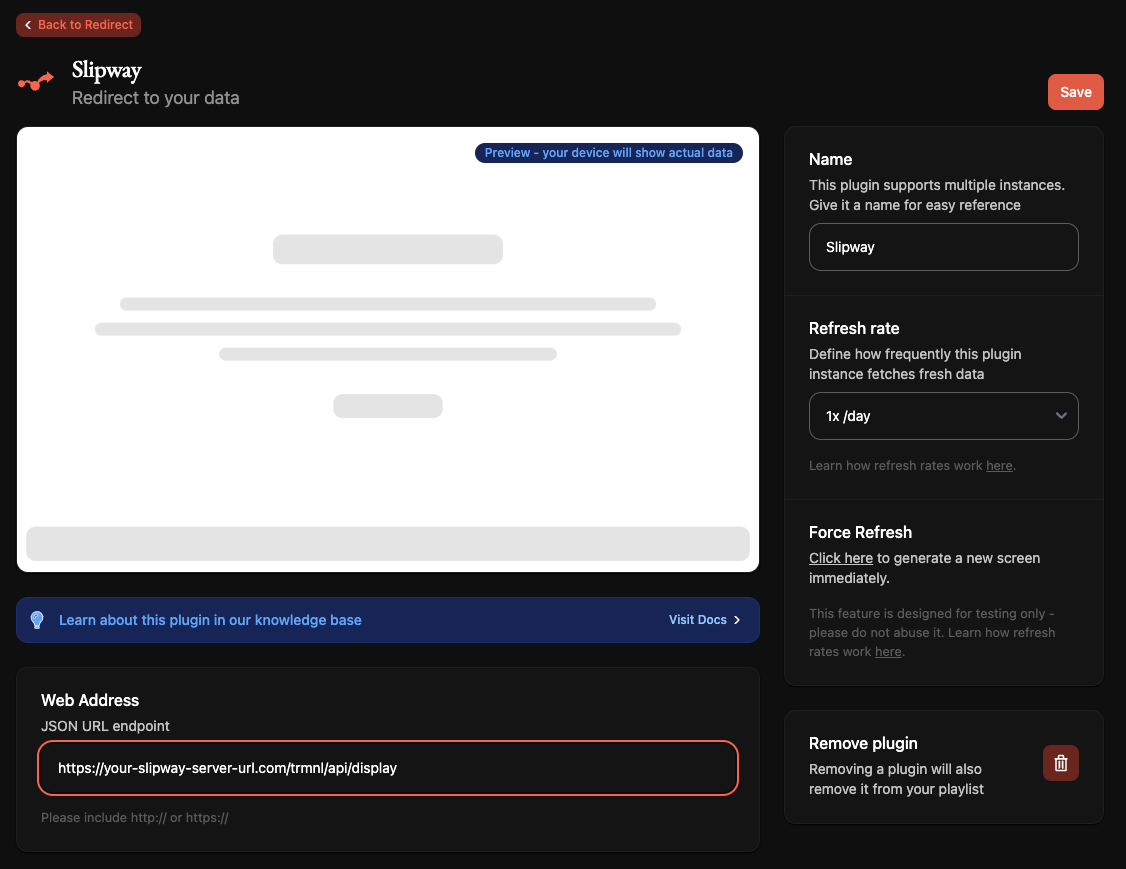
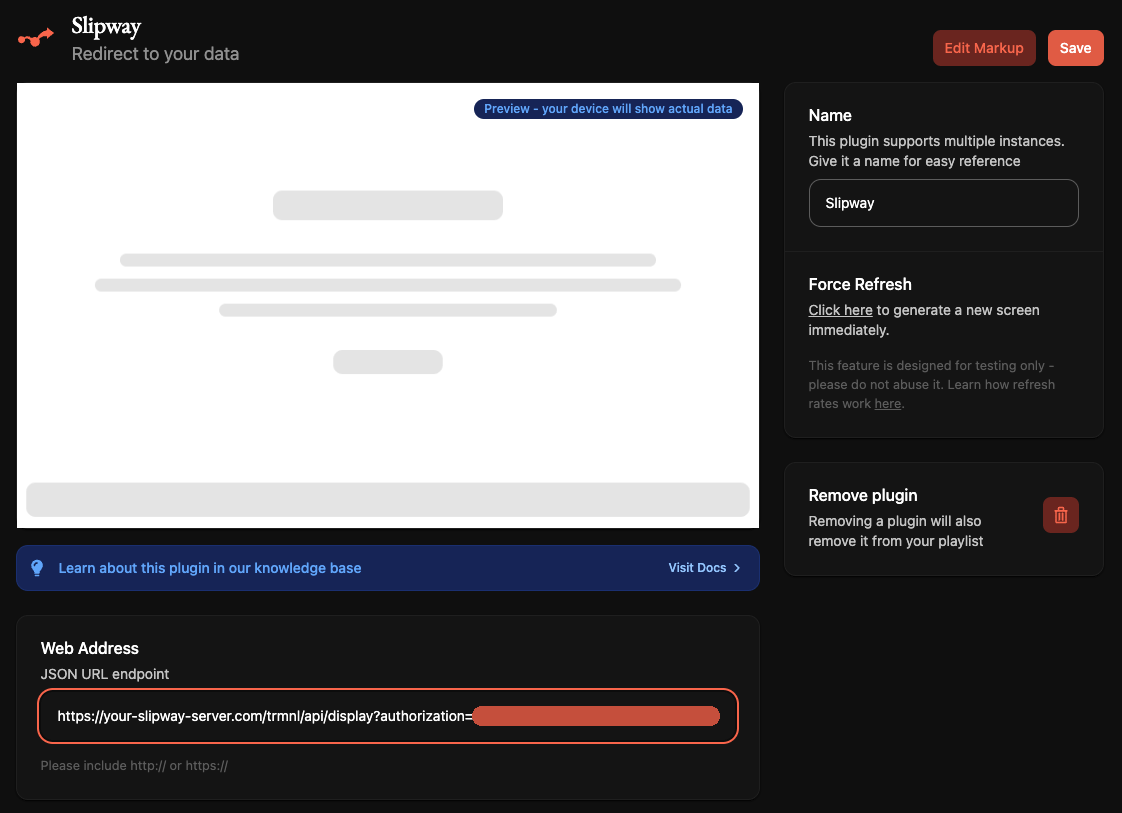
Update docs for 0.8.0 release

diff --git a/docs/using-with-trmnl/trmnl-quick-start.md b/docs/using-with-trmnl/trmnl-quick-start.md
@@ -21,7 +21,108 @@ Next, in your Rig file, make sure your canvas width and height matches your TRMN
 You should now be ready to proceed with the TRMNL Quick Start below.
 :::
 
-## Start your server and watch the logs
+## Options for connecting your TRMNL device to Slipway
+
+There are two recommended ways you can get your TRMNL device talking to your Slipway server:
+
+ - Connecting via the [TRMNL Redirect plugin](https://help.usetrmnl.com/en/articles/11035846-redirect-plugin).
+ - Connecting directly to your Slipway server.
+
+We'll explain both of these options, and the advantages of each.
+
+### Why connect via the TRMNL Redirect plugin?
+
+For this option your Slipway server needs to be publicly accessible on the internet.
+If you need to quickly get it hosted, you can probably [do it on Fly.io for free](/docs/guides/hosting-on-fly).
+
+The advantages of this method are:
+
+ - Firmware Updates: Because you're connecting via TRMNL's infrastructure, they can send your device
+ firmware updates as new versions are released.
+ - Management: You can still manage your device through TRMNL's website, for example monitoring its battery life.
+ - Plugin ecosystem: Using TRMNL playlists can have your device displaying native TRMNL plugins sometimes, and Slipway plugins
+ at other times, giving you access to both ecosystems.
+
+### Why connect directly to your Slipway server?
+
+The advantages of this method are:
+
+ - Simplicity: Without the TRMNL infrastructure in the loop, there are fewer things that can go wrong.
+ - Privacy: TRMNL's own servers are not involved at all.
+ - Flexibility: You can run your Slipway server on the same local network as your devices, without the server
+ needing to be accessible from the internet.
+
+## How to connect
+
+Depending on which option you've chosen, you can go though one of the sections below. If you're unsure,
+and your server is publicly hosted, I'd suggest using the TRMNL Redirect plugin.
+
+## Connecting via the TRMNL Redirect plugin
+
+When you set up your TRMNL device, let it connect to the default TRMNL servers as normal.
+
+### Adding an API key for the Redirect plugin
+
+First, generate an API key for the TRMNL Redirect plugin by running the following command from your Slipway serve root,
+replacing `<NAME>` with the name you'd like to give your device,
+and replacing `<PLAYLIST>` with the name of the Slipway playlist you'd like the device to use.
+
+:::info
+Both the device name and the playlist name should be made up of only
+lowercase alphanumeric characters and underscores, `so_something_like_this`.
+
+If you followed the [Quick Start](/docs/getting-started/create-your-first-rig), the playlist name will be `every_so_often`.
+:::
+
+```
+    slipway serve . add-api-key \
+        --description "TRMNL Redirect Plugin" \
+        --device <DEVICE>
+        --playlist <PLAYLIST>
+
+```
+
+Make a note of the API key which is displayed in the console output, and re-deploy the server if necessary so this API
+key is live.
+
+### Configuring the Redirect plugin
+
+On the TRMNL website, add the [Redirect plugin](https://help.usetrmnl.com/en/articles/11035846-redirect) to a playlist
+on your device.
+
+To configure the Redirect plugin, put the address of the TRMNL `display` API endpoint in the "Web Address" field.
+This will be the domain where your server is hosted, followed by `/trmnl/api/display?authorization=<API_KEY>`,
+where `<API_KEY>` should be replaced by the API key you just noted down.
+
+:::info[Example]
+If your normal Slipway server URL is:
+```
+https://my-slipway-server.com/
+```
+
+Then you should point the Redirect plugin at:
+```
+https://my-slipway-server.com/trmnl/api/display?authorization=<API_KEY>
+```
+
+You can test this URL in your browser and you should see a JSON payload, which is what Slipway returns
+to the Redirect plugin.
+:::
+
+The "Refresh rate" field can be left alone, because when using the Redirect plugin the device will receive
+the refresh rate from the Slipway server response.
+
+Save the plugin settings, and if the Redirect plugin is the next one to be sent to your device you
+should be able to press the back button on the back to manually refresh the TRMNL.
+
+If you have your server logs visible you should see the request come in, and the screen being generated,
+and then it should appear on your TRMNL device.
+
+![TRMNL Redirect Plugin](img/trmnl-redirect-plugin.png)
+
+## Connecting directly to your Slipway server
+
+### Start your Slipway server and watch the logs
 
 Ensure your server is running (you can run it locally with `slipway serve .`) and that you can see the logs.
 If you're running locally, the logs will be output to your terminal window.
@@ -31,26 +132,15 @@ If you've deployed the server to [Fly.io](/docs/guides/hosting-on-fly) you can w
 You will need to be able to monitor the logs when you add the TRMNL device.
 :::
 
-## Connecting your TRMNL device
-
-There are two recommended ways you can get your TRMNL device talking to your Slipway server:
-
- - Connecting directly to your Slipway server.
- - Connecting via the [TRMNL Redirect plugin](https://help.usetrmnl.com/en/articles/11035846-redirect-plugin).
-
-We'll briefly explain both of these options, and the advantages of each.
-
-### Connecting directly to your Slipway server
-
-The advantages of this method are:
-
- - Simplicity: Without the TRMNL infrastructure in the loop, there are fewer things that can go wrong.
- - Privacy: TRMNL's own servers are not involved at all.
- - Flexibility: You can run your Slipway server on the same local network as your devices, without the server
- needing to be accessible from the internet.
+### Configure your TRMNL device
 
 When you first set up your TRMNL device you're prompted for your WiFi SSID and password,
 and in addition you can optionally enter an API Server URL.
+
+:::tip
+If you've previously already done this step without entering a custom API Server URL, you can return to this
+setup screen by holding the back button on your device for about 5 seconds.
+:::
 
 To connect directly to your Slipway server, the server URL should be
 specified as the URL of your Slipway server __with `/trmnl` appended to the end__.
@@ -67,51 +157,13 @@ https://my-slipway-server.com/trmnl
 ```
 :::
 
-### Connecting via the TRMNL Redirect plugin
 
-Your Slipway server needs to be publicly accessible on the internet for this method.
-If you need to quickly get it hosted, you can probably [do it on Fly.io for free](/docs/guides/hosting-on-fly).
-
-The advantages of this method are:
-
- - Firmware Updates: Because you're connecting via TRMNL's infrastructure, they can send your device
- firmware updates as new versions are released.
- - Management: You can still manage your device through TRMNL's website, for example monitoring its battery life.
- - Plugin ecosystem: By configuring TRMNL playlists can have your device displaying native TRMNL plugins sometimes, and Slipway plugins
- at other times, giving you access to both ecosystems.
-
-When you set up your TRMNL device, let it connect to the default TRMNL servers as normal.
-
-On the TRMNL website, add the [Redirect plugin](https://help.usetrmnl.com/en/articles/11035846-redirect) to a playlist
-on your device. If you want to proceed to the next step of this TRMNL Quick Start right away
-then make sure the plugin will be the active plugin for your device right now.
-
-To configure the Redirect plugin, put the address of the TRMNL `display` API endpoint in the "Web Address" field.
-This will be the domain where your server is hosted, followed by `/trmnl/api/display`.
-
-:::info[Example]
-If your normal Slipway server URL is:
-```
-https://my-slipway-server.com/
-```
-
-Then you should point the Redirect plugin at:
-```
-https://my-slipway-server.com/trmnl/api/display
-```
-:::
-
-The "Refresh rate" field can be left alone, because with the Redirect plugin the device will receive
-the refresh rate from the Slipway server response.
-
-![TRMNL Redirect Plugin](img/trmnl-redirect-plugin.png)
-
-## Adding your device to Slipway
+### Adding your device to Slipway
 
 Once you've connected your TRMNL device, it will do one of two things:
 
 - If the device has already been given an API key, for example if you've previously connected
-it to the official TRMNL servers, or if you're connecting via the TRMNL Redirect plugin,
+it to the official TRMNL servers,
 then it will immediately try and fetch a screen from your Slipway server
 using the `/trmnl/api/display` endpoint, passing in its existing API key.
 
@@ -126,18 +178,17 @@ you will see a message similar to the following in the Slipway logs:
 ```
 To allow this device, run the following command from your Slipway serve root:
 
-    slipway serve . add-trmnl-device \
-        --name "<NAME>" \
-        --hashed-id "some_long_random_hash" \
-        --hashed-api-key "some_long_random_hash" \
-        --playlist <PLAYLIST>
+    slipway serve . add-api-key \
+        --hashed-key "some_long_random_hash" \
+        --device "<DEVICE_NAME>" \
+        --playlist <PLAYLIST_NAME>
 
 Then re-deploy the server if necessary.
 ```
 
 You should now run the command specified in your server logs (which will be similar to the one above, except it will include
-the correct hashes for your device), replacing `<NAME>` with the name you'd like to give your device,
-and replacing `<PLAYLIST>` with the name of the Slipway playlist you'd like the device to use.
+the correct hashed API key for your device), replacing `<DEVICE_NAME>` with the name you'd like to give your device,
+and replacing `<PLAYLIST_NAME>` with the name of the Slipway playlist you'd like the device to use.
 
 :::info
 Both the device name and the playlist name should be made up of only
@@ -151,6 +202,15 @@ your TRMNL device.
 
 After adding the device you'll need to restart the server (if running locally) or redeploy the server
 (if it is hosted, for example by running `fly deploy` if you're using [Fly.io](/docs/guides/hosting-on-fly)).
+
+Once that is done you should be able to press the button on the back of your TRMNL device to
+manually trigger a refresh, watch the page being generated in your Slipway logs, and finally see the screen
+appear on your TRMNL device.
+
+:::tip
+As an extra step, when using Slipway with TRMNL devices it is recommended to also add a 
+[`SLIPWAY_SECRET` Environment Variable](/docs/guides/the-slipway-secret-env) to improve security.
+:::
 
 :::info[Why do we have to manually add the device?]
 The Slipway server never modifies its own configuration files, so you must always make any changes
@@ -168,15 +228,6 @@ in the configuration files, they are safe to upload to version control systems s
 
 By storing your configuration files in a version control system you can easily track how your server
 changes over time, and roll back to a previous configuration if necessary.
-:::
-
-Once that is done you should be able to press the button on the back of your TRMNL device to
-manually trigger a refresh, watch the page being generated in your Slipway logs, and finally see the screen
-appear on your TRMNL device.
-
-:::tip
-As an extra step, when using Slipway with TRMNL devices it is recommended to also add a 
-[`SLIPWAY_SECRET` Environment Variable](/docs/guides/the-slipway-secret-env) to improve security.
 :::
 
 ## What Next?

diff --git a/docs/basics/serving-rigs.md b/docs/basics/serving-rigs.md
@@ -61,7 +61,7 @@ The `init` command will produce a basic version of this file which will look som
   "timezone": "Europe/London",
   "locale": "en-GB",
   "rig_permissions": {},
-  "hashed_api_keys": {}
+  "api_keys": []
 }
 ```
 
@@ -134,18 +134,18 @@ See the [Permissions](/docs/basics/permissions) page for more detail about possi
 
 An optional port to serve on. Defaults to `8080`.
 
-### `hashed_api_keys`
+### `api_keys`
 
-A mapping of key names to hashed API keys.
+A list of hashed API keys with optional associations width specific devices.
 
-API keys provide security by requiring that all devices requesting dashboards provide an API key contained
+API keys provide security by requiring that all devices requesting dashboards provide an API key present
 in the `slipway_serve.json` file. Any requests which do not provide a valid key are rejected.
 
 You can easily add a new random API key by calling the `add-api-key` sub-command.
 
 For example:
 ```sh
-slipway serve . add-api-key --name my_new_key
+slipway serve . add-api-key --description "My new key"
 ```
 
 See the [API Keys](#api-keys) section below for more details.
@@ -463,13 +463,13 @@ New API keys can be easily added to the `slipway_serve.json` using the `add-api-
 
 For example:
 ```sh
-slipway serve . add-api-key --name my_new_key
+slipway serve . add-api-key --description "My new key"
 ```
 
 This command will generate a long and random key, and add the hashed version of the key to the `slipway_serve.json` file
-with the name `my_new_key`.
+with the description provided.
 
-This is secure, as it is computationally infeasible to work out the unhashed key from the
+This a is secure way to store the keys, as it is computationally infeasible to work out the unhashed key from the
 hashed key. The hashing algorithm used is SHA256.
 
 The `add-api-key` command will output the unhashed key in the console for you to save somewhere securely.
@@ -486,14 +486,23 @@ Anyone with access to an unhashed key is able to call your Slipway server endpoi
 
 Keys can be revoked simply by removing them from the `slipway_serve.json` and re-deploying the server.
 
-If you wish to add a custom key, rather than a randomly generated one, you can use the `slipway hash` command
-to generate the hash, and add the hashed key to the `slipway_serve.json` manually.
+If you wish to add a specific key, rather than a randomly generated one, you can use the `--key` argument
+to specify the key. You can also use the `--hashed-key` argument to specify a specific hashed key.
+
+If you want to associate a key with a device, you can use the `--device` argument to specify a device name.
+Associating a key with a device allows the [TRMNL endpoints](/docs/using-with-trmnl/slipway-for-trmnl-devices)
+to know which device configuration to use when the TRMNL device authenticates with an API key.
+
+You can also run `add-api-key` with the `--hashed-key` argument specifying a hashed key that already exists,
+and the settings for that key will be updated. This is useful to add a device association to an existing key
+(although you could also manually edit the JSON).
 
 You can add as many or as few keys as you like. So for example you could have one key for all devices,
 or one key per device, or anything in between.
 
 If some devices have to pass their API key as a query string parameter, rather than as a header,
-it may be worth using a separate key so it can be easily revoked if it leaks, without affecting other devices.
+it may be worth using a separate key for that device so it can be easily revoked if it leaks,
+without affecting other devices.
 
 ## Consolidate
 

diff --git a/docs/guides/secrests-and-hashed-api-keys.md b/docs/guides/secrests-and-hashed-api-keys.md
@@ -45,9 +45,6 @@ This allows us to safely store the hashed API keys directly in the `slipway serv
 This does mean that __if you generate your own API keys you must ensure they are sufficiently long and random__.
 
 Using an API key of `hunter2` is a very bad idea.
-
-This is why the `slipway serve . add-api-key` command does not have the option of passing in an API
-key, and always generates a secure key for you.
 :::
 
 :::info

diff --git a/docs/getting-started/create-your-first-rig.md b/docs/getting-started/create-your-first-rig.md
@@ -279,7 +279,7 @@ There are just a couple of additions we need to make.
 First add an API key:
 
 ```sh
-slipway serve . add-api-key --name "example_key"
+slipway serve . add-api-key --description "Example key"
 ```
 
 This will add a hashed API key to the `slipway_serve.json` file, and output the unhashed key to the terminal.
